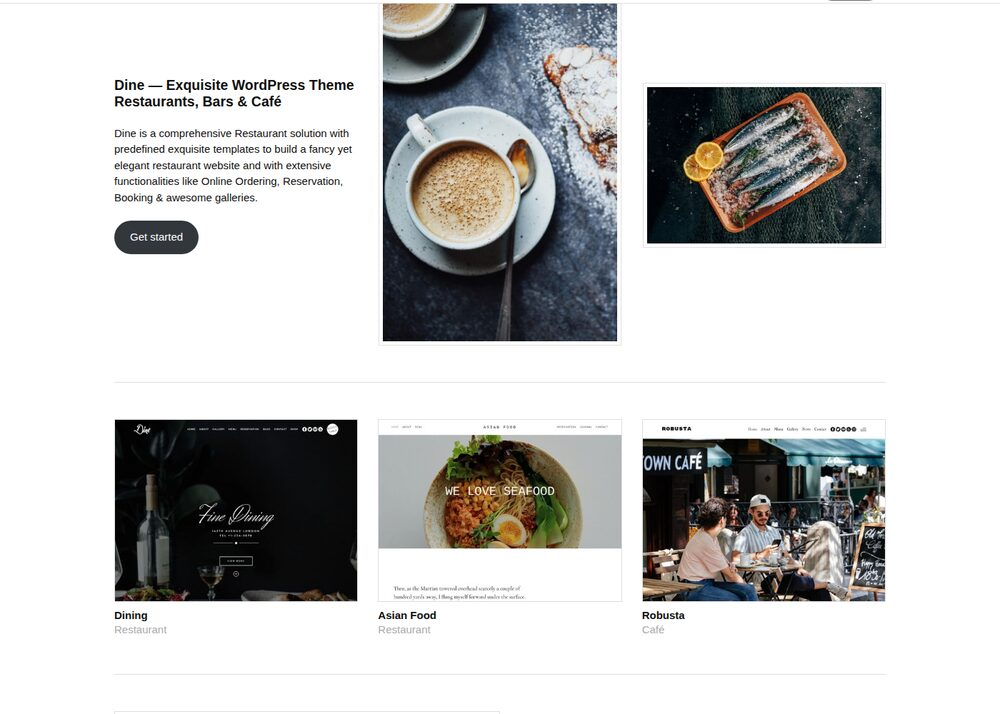
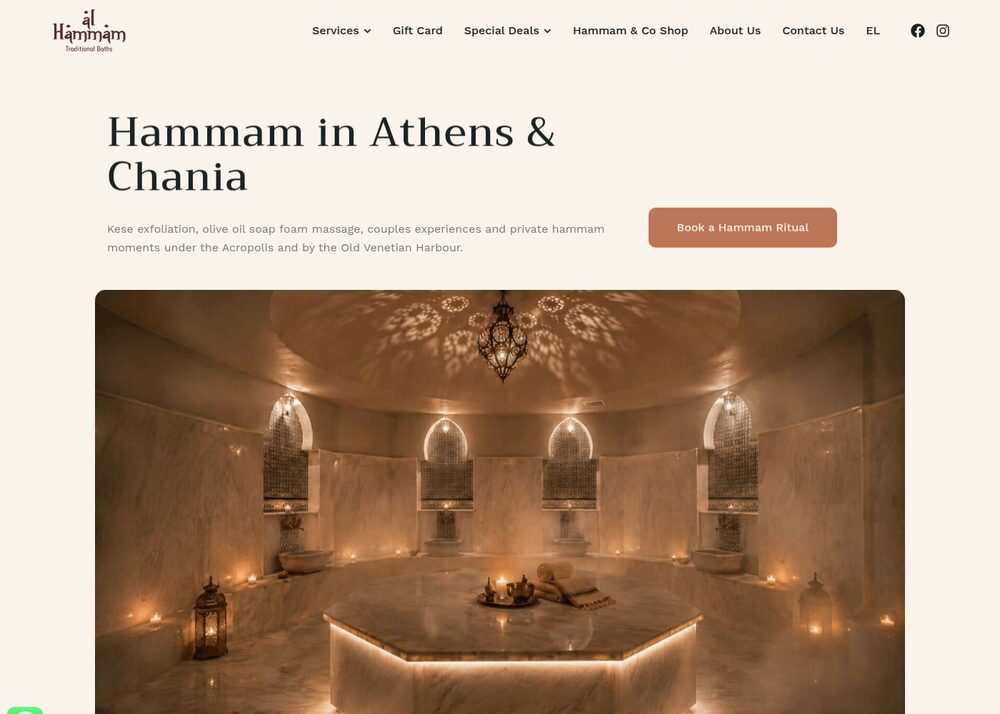
Use unrelated site screenshots on the projects page

diff --git a/projects/index.html b/projects/index.html
@@ -31,12 +31,12 @@ gtag('config', 'G-5EDRYVRH1M');
 
 <main>
   <h1>Dự án</h1>
-  <p>Một vài website chúng tôi đã thực hiện.</p>
+  <p>Một vài giao diện website tham khảo.</p>
 
   <div class="grid">
-    <figure><img src="/assets/project-1.jpg" alt="Ảnh chụp một website đã thực hiện" width="1000" height="714" loading="lazy"></figure>
-    <figure><img src="/assets/project-2.jpg" alt="Ảnh chụp một website đã thực hiện" width="1000" height="714" loading="lazy"></figure>
-    <figure><img src="/assets/project-3.jpg" alt="Ảnh chụp một website đã thực hiện" width="1000" height="614" loading="lazy"></figure>
+    <figure><img src="/assets/project-1.jpg" alt="Ảnh chụp trang chủ một website nhà hàng Ý" width="1000" height="714" loading="lazy"></figure>
+    <figure><img src="/assets/project-2.jpg" alt="Ảnh chụp trang chủ một website spa" width="1000" height="714" loading="lazy"></figure>
+    <figure><img src="/assets/project-3.jpg" alt="Ảnh chụp trang chủ một website tiệm bánh" width="1000" height="714" loading="lazy"></figure>
   </div>
 </main>
 
